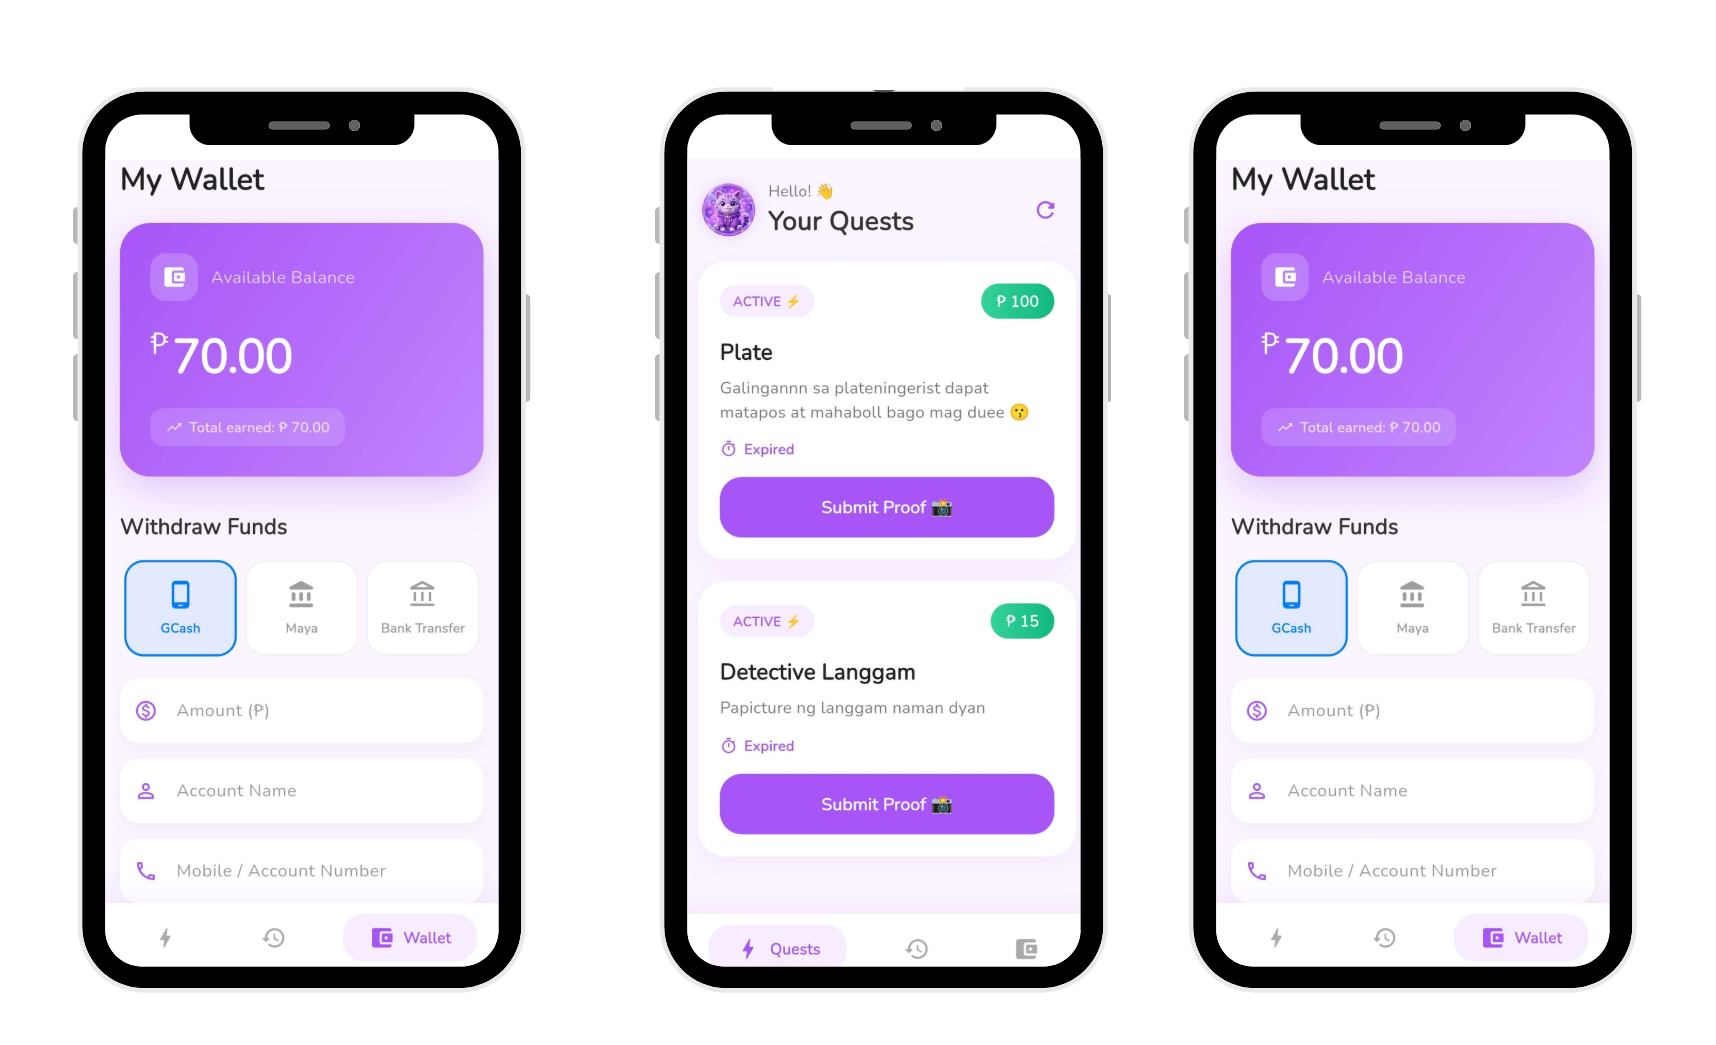
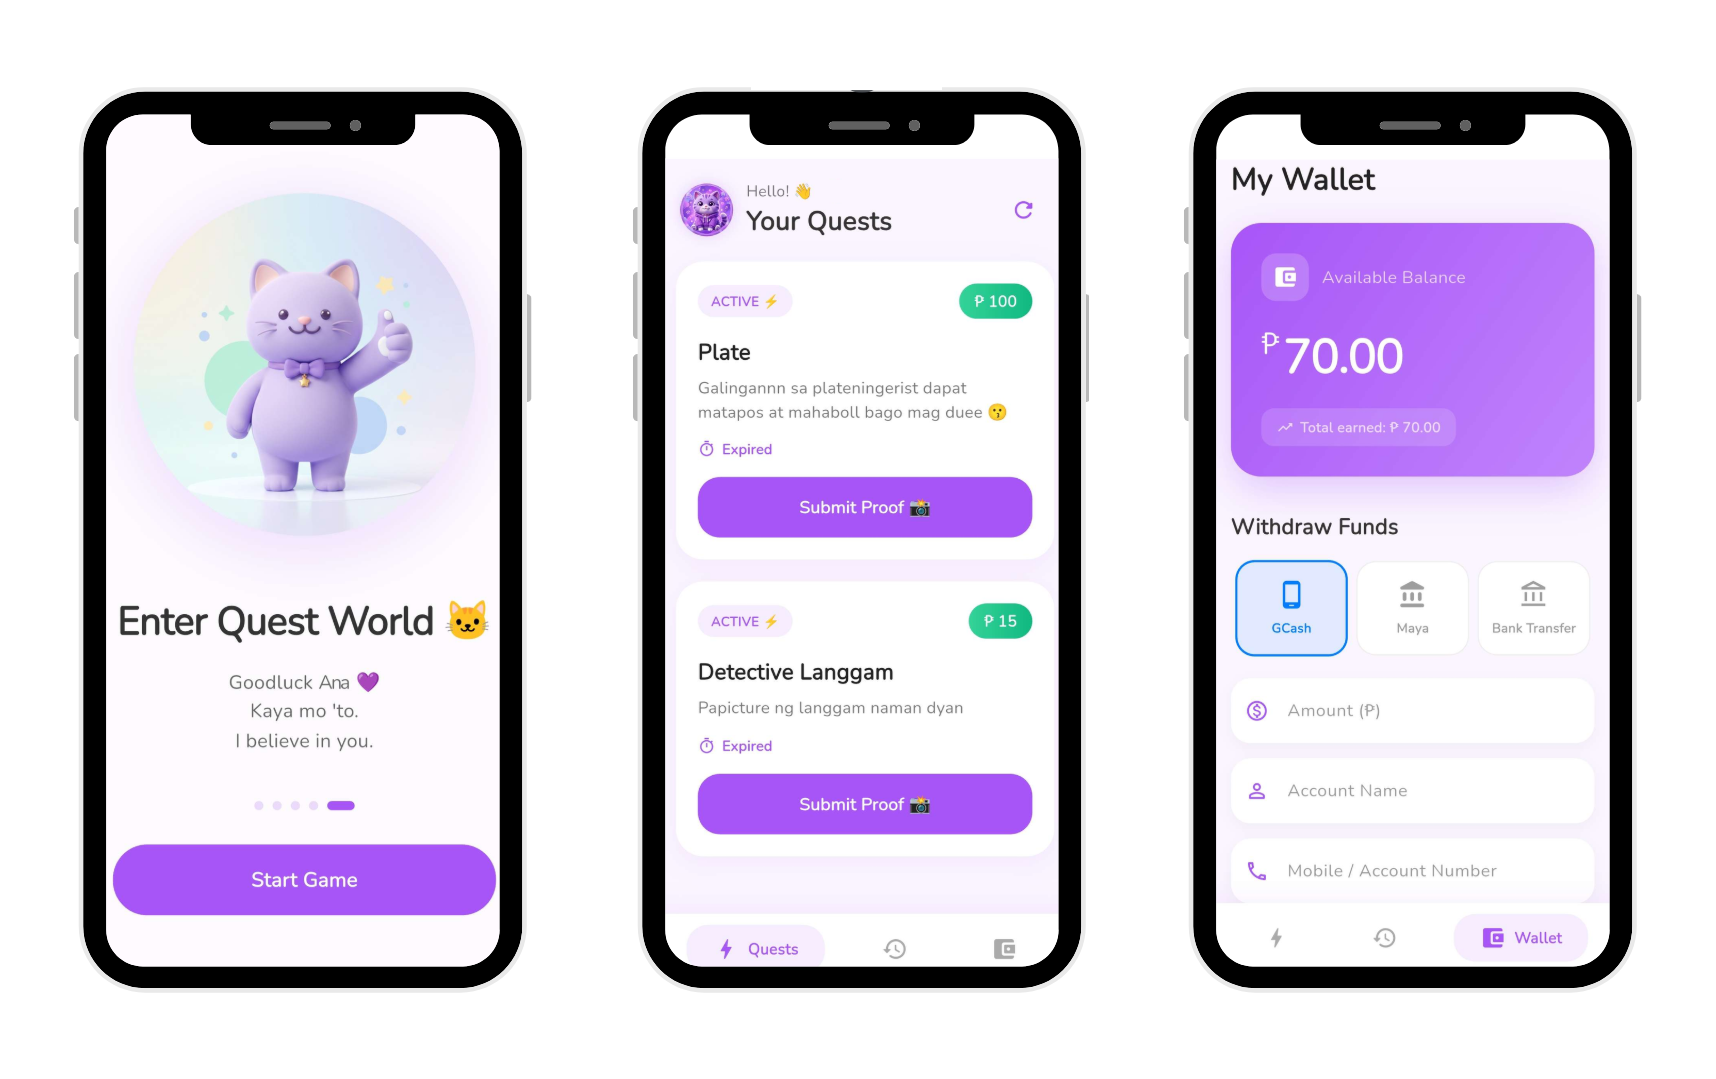
Fix Impressive Works: replace hardcoded Ads Maker AI image and title with vbase Mobile

diff --git a/client/pages/Index.tsx b/client/pages/Index.tsx
@@ -314,10 +314,10 @@ export default function Index() {
               </button>
             </div>
 
-            {/* Project 2 - Ads Maker AI */}
+            {/* Project 2 - vbase Mobile */}
             <div className="flex flex-col gap-6 md:gap-7">
               <div className="w-full h-auto rounded-[42px] overflow-hidden aspect-[807/470]">
-                <img src="/adsmaker.jpg" alt="Ads Maker AI" className="w-full h-full object-cover" />
+                <img src="/vbase-mobile.png" alt="vbase Mobile" className="w-full h-full object-cover" />
               </div>
               <button
                 onClick={() => setSelectedProject(homeProjects[1])}
@@ -334,7 +334,7 @@ export default function Index() {
                   />
                 </svg>
                 <span className="font-inter font-normal text-[clamp(1.5rem,3vw,2.5rem)] text-black">
-                  Ads Maker AI
+                  vbase Mobile
                 </span>
               </button>
             </div>
